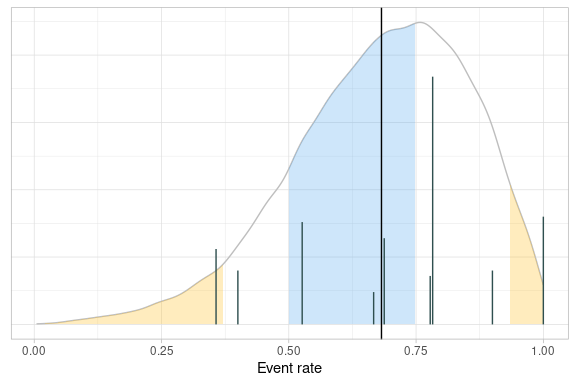
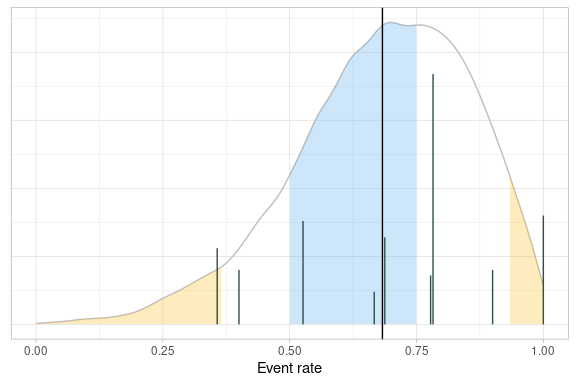
Fix typos in README

diff --git a/README.md b/README.md
@@ -213,37 +213,37 @@ We fit the Bayesian Hierarchical Model described by Berry et al …
 fitted <- berrySummary %>%
   fitBayesBinomialModel(n = Subjects, r = Events)
 #> Loading required namespace: rjags
-#> INFO [2024-06-14 06:39:27] Status of model fitting: OK
+#> INFO [2024-06-17 07:55:30] Status of model fitting: OK
 fitted
 #> $tab
 #> # A tibble: 20,000 × 4
 #>        p     a     b     q
 #>    <dbl> <dbl> <dbl> <int>
-#>  1 0.925  4.01  1.45    95
-#>  2 0.812  3.87  1.47    75
-#>  3 0.848  3.75  2.81    83
-#>  4 0.601  5.41  3.09    31
-#>  5 0.457  6.93  2.32    11
-#>  6 0.517  7.42  3.53    18
-#>  7 0.666  8.52  3.45    43
-#>  8 0.565  8.86  3.36    25
-#>  9 0.837  8.51  2.20    81
-#> 10 0.650  4.17  2.67    40
+#>  1 0.814  6.46  2.41    76
+#>  2 0.854  7.28  2.79    84
+#>  3 0.753  6.34  3.09    62
+#>  4 0.691  8.96  3.68    49
+#>  5 0.690  9.58  3.74    48
+#>  6 0.706  8.13  2.52    52
+#>  7 0.583  8.45  3.63    27
+#>  8 0.624  6.44  3.67    34
+#>  9 0.664  3.95  3.65    43
+#> 10 0.608  6.91  3.48    31
 #> # ℹ 19,990 more rows
 #> 
 #> $results
 #> 
 #> JAGS model summary statistics from 20000 samples (chains = 2; adapt+burnin = 5000):
 #>                                                                          
-#>       Lower95  Median Upper95    Mean     SD Mode     MCerr MC%ofSD SSeff
-#> p[10] 0.37138 0.69905   0.999 0.68206 0.1723   -- 0.0013275     0.8 16845
-#> a      2.2354  5.8891  9.9845  5.9047 2.2792   --  0.055052     2.4  1714
-#> b      0.6419  2.6299  5.1874  2.7811 1.2619   --  0.031599     2.5  1595
+#>       Lower95 Median Upper95    Mean      SD Mode     MCerr MC%ofSD SSeff
+#> p[10] 0.36562 0.6991 0.99996 0.68282 0.17257   -- 0.0013713     0.8 15837
+#> a      2.2683 5.9563  9.9997  5.9373  2.2751   --  0.056178     2.5  1640
+#> b     0.62627 2.6183  5.1708  2.7753  1.2508   --  0.031487     2.5  1578
 #>                       
 #>           AC.10   psrf
-#> p[10] 0.0032465 1.0001
-#> a       0.19347 1.0001
-#> b       0.21223 1.0001
+#> p[10] 0.0094542      1
+#> a       0.21013 1.0011
+#> b       0.22843 1.0003
 #> 
 #> Total time taken: 3.9 seconds
 #> 
@@ -293,7 +293,7 @@ berrySummary %>%
 #> [1] "OK"
 #> 
 #> $qtl
-#> [1] 0.6820645
+#> [1] 0.6828212
 #> 
 #> $data
 #> # A tibble: 9 × 5
@@ -353,7 +353,7 @@ berrySummary %>%
 #> [1] "OK"
 #> 
 #> $qtl
-#> [1] 0.6990512
+#> [1] 0.6991032
 #> 
 #> $data
 #> # A tibble: 9 × 5
@@ -386,7 +386,7 @@ berrySummary %>%
 #> 
 #> $qtl
 #>       10% 
-#> 0.4505905 
+#> 0.4495861 
 #> 
 #> $data
 #> # A tibble: 9 × 5
@@ -428,7 +428,7 @@ qtlProbInRange
 #> [1] "action"
 #> 
 #> $qtl
-#> [1] 0.4636
+#> [1] 0.46465
 #> 
 #> $data
 #> # A tibble: 9 × 5
@@ -485,7 +485,7 @@ berrySummary %>%
     }
   )
 #> $qtl
-#> [1] 0.6820645
+#> [1] 0.6828212
 #> 
 #> $status
 #> [1] "Breach"
@@ -536,17 +536,17 @@ The `quantiles` element of the return value contains the mappings from
 quantile of the posterior to observed values of the metric. For example,
 the first row of `rvSiteMetrics$quantiles` shows that the lower action
 limit is the 5th centile of the posterior, which corresponds to an event
-probability of 0.372.
+probability of 0.366.
 
 ``` r
 rvSiteMetrics$quantiles
 #> # A tibble: 4 × 4
 #>   Threshold Status Quantile     p
 #>   <chr>     <chr>     <dbl> <dbl>
-#> 1 Lower     action     0.05 0.372
-#> 2 Lower     warn       0.2  0.538
-#> 3 Upper     warn       0.8  0.837
-#> 4 Upper     action     0.95 0.932
+#> 1 Lower     action     0.05 0.366
+#> 2 Lower     warn       0.2  0.543
+#> 3 Upper     warn       0.8  0.838
+#> 4 Upper     action     0.95 0.933
 ```
 
 As before, the `data` element of the list contains a copy of the site
@@ -988,7 +988,7 @@ Fitting the model is straightforward.
 ``` r
 poissonFit <- cavalrySummary %>%
   fitBayesPoissonModel(Deaths, TotalTime)
-#> INFO [2024-06-14 06:39:38] Status of model fitting: OK
+#> INFO [2024-06-17 07:55:41] Status of model fitting: OK
 poissonFit$tab %>%
   createQtlPlot(
     metric = lambda,

diff --git a/NEWS.md b/NEWS.md
@@ -9,8 +9,5 @@
 # rbqmR 0.0.0.9000
 
 * Added a `NEWS.md` file to track changes to the package.
-
-# Pending next version
-
-* Replace `logger` with `futile.logger`.
-* Improve test coverage.
+* Replaced `logger` with `futile.logger`.
+* Improved test coverage.
